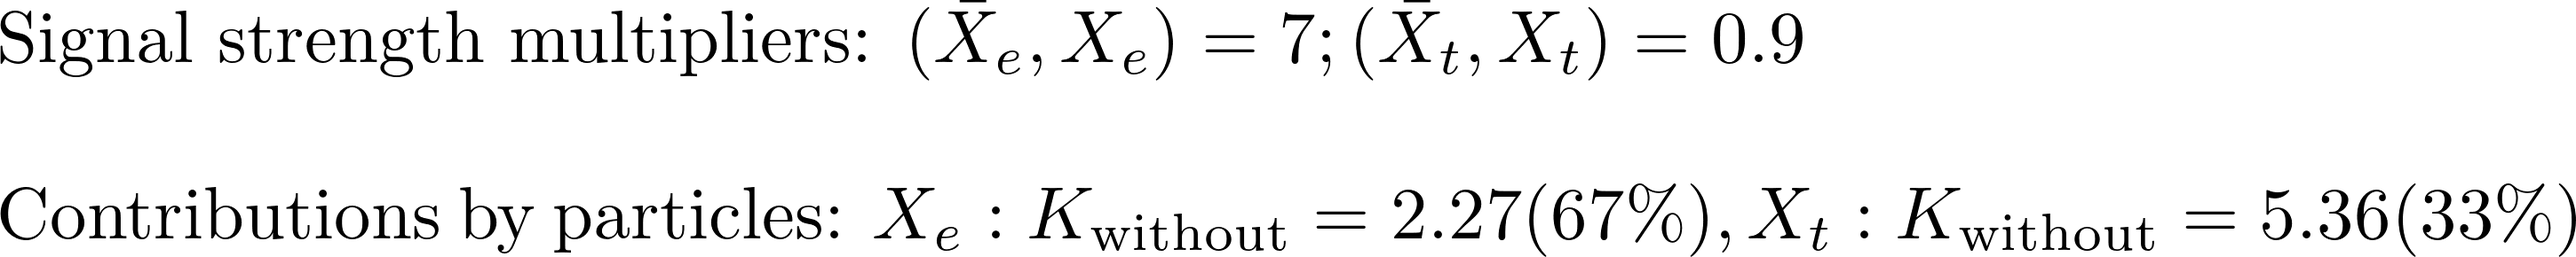
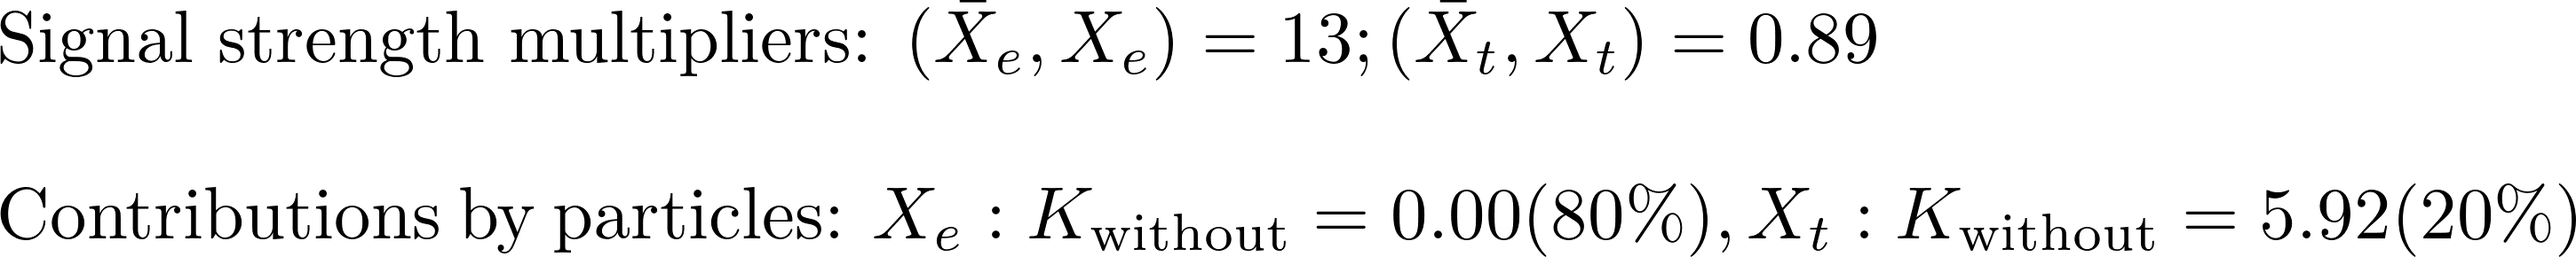
automated update by plotHiscore.py to /scratch-cbe/users/wolfgan.waltenberger/git/smodels.github.io/protomodels/latest/

Changed region(s): [[0.4964, 0.0, 0.7446, 0.3103], [0.5274, 0.7448, 0.6515, 0.931], [0.8997, 0.7448, 0.9928, 0.931]]

diff --git a/protomodels/latest/index.html b/protomodels/latest/index.html
@@ -1,30 +1,28 @@
 <html>
 <body>
 <center>
-<table><td><h1>Current best protomodel: K=8.42</h1><td><img height=60px src=https://smodels.github.io/pics/banner.png></table>
+<table><td><h1>Current best protomodel: K=7.96</h1><td><img height=60px src=https://smodels.github.io/pics/banner.png></table>
 </center>
-<b><a href=./hiscore.slha>ProtoModel</a> <a href=./pmodel.py>(dict)</a> produced with <a href=https://smodels.github.io/docs/Validation124signal11>database v1.2.4signal11</a>, combination strategy <a href=./matrix_aggressive.png>aggressive</a> in walker 28 step 140.</b> K plots for: <a href=./M1000022.png?13497653>X<sub>Z</sub><sup>1</sup></a>, <a href=./M1000006.png?13497653>X<sub>t</sub></a>, <a href=./M1000011.png?13497653>X<sub>e</sub></a>. HPD plots for: <a href=./llhd1000006.png?13497653>X<sub>t</sub></a>, <a href=./llhd1000011.png?13497653>X<sub>e</sub></a>. SSM plots for: <a href=./ssm_-1000006_1000006.png?13497653>(x&#772;<sub>t</sub>,X<sub>t</sub>)</a><br>
+<b><a href=./hiscore.slha>ProtoModel</a> <a href=./pmodel.py>(dict)</a> produced with <a href=https://smodels.github.io/docs/Validation124signal12>database v1.2.4signal12</a>, combination strategy <a href=./matrix_aggressive.png>aggressive</a> in walker 22 step 549.</b> K plots for: <a href=./M1000022.png?13497929>X<sub>Z</sub><sup>1</sup></a>, <a href=./M1000006.png?13497929>X<sub>t</sub></a>, <a href=./M1000011.png?13497929>X<sub>e</sub></a>. HPD plots for: <a href=./llhd1000006.png?13497929>X<sub>t</sub></a>, <a href=./llhd1000011.png?13497929>X<sub>e</sub></a>. SSM plots for: <a href=./ssm_-1000006_1000006.png?13497929>(x&#772;<sub>t</sub>,X<sub>t</sub>)</a><br>
 <table width=80%>
 <tr><td>
-<br><b>18 predictions available. Highest r values are:</b><br><ul>
-<li><a href=http://cms-results.web.cern.ch/cms-results/public-results/publications/SUS-19-006/index.html>CMS-SUS-19-006</a>:T2tt r=1.30, r<sub>exp</sub>=1.02<br>
-<li><a href=https://cms-results.web.cern.ch/cms-results/public-results/publications/SUS-17-009/>CMS-SUS-17-009</a>:TSelSel r=1.17, r<sub>exp</sub>=0.51<br>
-<li><a href=http://cms-results.web.cern.ch/cms-results/public-results/publications/SUS-16-051/index.html>CMS-SUS-16-051</a>:T2tt r=0.65, r<sub>exp</sub>=0.48<br>
-<li><a href=http://cms-results.web.cern.ch/cms-results/public-results/publications/SUS-16-050/index.html>CMS-SUS-16-050</a>:T2tt r=0.59, r<sub>exp</sub>=0.86<br>
-<li><a href=https://atlas.web.cern.ch/Atlas/GROUPS/PHYSICS/PAPERS/SUSY-2016-24/>ATLAS-SUSY-2016-24</a>:TSelSel r=0.51, r<sub>exp</sub>=0.82<br>
+<br><b>8 predictions available. Highest r values are:</b><br><ul>
+<li><a href=http://cms-results.web.cern.ch/cms-results/public-results/publications/SUS-19-006/index.html>CMS-SUS-19-006</a>:T2tt r=1.30, r<sub>exp</sub>=0.43<br>
+<li><a href=https://atlas.web.cern.ch/Atlas/GROUPS/PHYSICS/PAPERS/SUSY-2013-11/>ATLAS-SUSY-2013-11</a>:TSlepSlep r=1.02, r<sub>exp</sub>=0.82<br>
+<li><a href=https://atlas.web.cern.ch/Atlas/GROUPS/PHYSICS/PAPERS/SUSY-2018-32/>ATLAS-SUSY-2018-32</a>:TSlepSlep r=0.98, r<sub>exp</sub>=N/A<br>
+<li><a href=https://cms-results.web.cern.ch/cms-results/public-results/publications/SUS-17-009/>CMS-SUS-17-009</a>:TSelSel r=0.54, r<sub>exp</sub>=0.90<br>
+<li><a href=https://cms-results.web.cern.ch/cms-results/public-results/publications/SUS-17-009/>CMS-SUS-17-009</a>:TSlepSlep r=0.43, r<sub>exp</sub>=0.47<br>
 </ul>
 <td><br><b>K values without analyses: (contribution)</b><br>
 <ul>
-<li> <a href=http://cms-results.web.cern.ch/cms-results/public-results/publications/SUS-16-049/index.html>CMS-SUS-16-049</a>: -2.14 (20%)
-<li> <a href=https://cms-results.web.cern.ch/cms-results/public-results/publications/SUS-17-009/>CMS-SUS-17-009</a>: -2.14 (20%)
-<li> <a href=https://atlas.web.cern.ch/Atlas/GROUPS/PHYSICS/PAPERS/SUSY-2013-11/>ATLAS-SUSY-2013-11</a>: -2.22 (20%)
-<li> <a href=https://atlas.web.cern.ch/Atlas/GROUPS/PHYSICS/PAPERS/SUSY-2016-24/>ATLAS-SUSY-2016-24</a>: -2.56 (20%)
-<li> <a href=https://atlas.web.cern.ch/Atlas/GROUPS/PHYSICS/PAPERS/SUSY-2016-16/>ATLAS-SUSY-2016-16</a>: -2.92 (21%)
-<td><img width=600px src=./texdoc.png?1606497653>
-<br><font size=-1>Last updated: Fri Nov 27 18:20:53 2020</font>
+<li> <a href=https://cms-results.web.cern.ch/cms-results/public-results/publications/SUS-17-009/>CMS-SUS-17-009</a>: 2.20 (25%)
+<li> <a href=http://cms-results.web.cern.ch/cms-results/public-results/publications/SUS-16-049/index.html>CMS-SUS-16-049</a>: 2.12 (25%)
+<li> <a href=https://atlas.web.cern.ch/Atlas/GROUPS/PHYSICS/PAPERS/SUSY-2013-11/>ATLAS-SUSY-2013-11</a>: -3.50 (50%)
+<td><img width=600px src=./texdoc.png?1606497929>
+<br><font size=-1>Last updated: Fri Nov 27 18:25:29 2020</font>
 </table><table style="width:80%">
-<td width=45%><img height=580px src=./ruler.png?1606497653><td width=55%><img height=380px src=./decays.png?1606497653>
-<font size=-3><iframe type="text/html" height="220px" width="100%s" frameborder="0" src="./rawnumbers.html?1606497653"></iframe></font>
+<td width=45%><img height=580px src=./ruler.png?1606497929><td width=55%><img height=380px src=./decays.png?1606497929>
+<font size=-3><iframe type="text/html" height="220px" width="100%s" frameborder="0" src="./rawnumbers.html?1606497929"></iframe></font>
 </table>
 </body>
 </html>

diff --git a/protomodels/latest/rawnumbers.html b/protomodels/latest/rawnumbers.html
@@ -1,9 +1,7 @@
 <table>
 <tr><th>Analysis Name</th><th>Type</th><th>Dataset</th><th>Topos</th><th>Observed</th><th>Expected</th><th>Approx &sigma;</th><th>Particles</th><th>Signal</th>
 </tr>
-<tr><td><a href=https://atlas.web.cern.ch/Atlas/GROUPS/PHYSICS/PAPERS/SUSY-2013-11/>ATLAS-SUSY-2013-11</a></td><td>em</td> <td>mT2-150-SF</td><td>TSlepSlep</td><td>4</td><td>3.2 +/- 0.7</td><td style="text-align:right">0.4 &sigma;</td><td style="text-align:right">X<sub>e</sub></td><td style="text-align:right">2</td></tr>
-<tr><td><a href=https://atlas.web.cern.ch/Atlas/GROUPS/PHYSICS/PAPERS/SUSY-2016-16/>ATLAS-SUSY-2016-16</a></td><td>em</td> <td>tN_high</td><td>T2tt</td><td>6</td><td>3.8 +/- 1</td><td style="text-align:right">1.0 &sigma;</td><td style="text-align:right">X<sub>t</sub></td><td style="text-align:right">3</td></tr>
-<tr><td><a href=https://atlas.web.cern.ch/Atlas/GROUPS/PHYSICS/PAPERS/SUSY-2016-24/>ATLAS-SUSY-2016-24</a></td><td>em</td> <td>SR2-SF-tight</td><td>TSelSel</td><td>13</td><td>9.8 +/- 2.9</td><td style="text-align:right">0.7 &sigma;</td><td style="text-align:right">X<sub>e</sub></td><td style="text-align:right">5</td></tr>
-<tr><td><a href=http://cms-results.web.cern.ch/cms-results/public-results/publications/SUS-16-049/index.html>CMS-SUS-16-049</a></td><td>ul</td> <td>-</td><td>T2tt</td><td> 5.0 fb </td><td> 2.7 fb</td><td style="text-align:right">1.7 &sigma;</td><td style="text-align:right">X<sub>t</sub></td><td style="text-align:right">2.32 fb</td></tr>
-<tr><td><a href=https://cms-results.web.cern.ch/cms-results/public-results/publications/SUS-17-009/>CMS-SUS-17-009</a></td><td>ul</td> <td>-</td><td>TSlepSlep</td><td> 3.7 fb </td><td> 1.5 fb</td><td style="text-align:right">3.0 &sigma;</td><td style="text-align:right">X<sub>e</sub></td><td style="text-align:right">2.27 fb</td></tr>
+<tr><td><a href=https://atlas.web.cern.ch/Atlas/GROUPS/PHYSICS/PAPERS/SUSY-2013-11/>ATLAS-SUSY-2013-11</a></td><td>em</td> <td>mT2-90-SF</td><td>TSlepSlep</td><td>59</td><td>38.2 +/- 5.1</td><td style="text-align:right">2.6 &sigma;</td><td style="text-align:right">X<sub>e</sub></td><td style="text-align:right">2</td></tr>
+<tr><td><a href=http://cms-results.web.cern.ch/cms-results/public-results/publications/SUS-16-049/index.html>CMS-SUS-16-049</a></td><td>ul</td> <td>-</td><td>T2tt</td><td> 5.5 fb </td><td> 2.2 fb</td><td style="text-align:right">3.0 &sigma;</td><td style="text-align:right">X<sub>t</sub></td><td style="text-align:right">2.32 fb</td></tr>
+<tr><td><a href=https://cms-results.web.cern.ch/cms-results/public-results/publications/SUS-17-009/>CMS-SUS-17-009</a></td><td>ul</td> <td>-</td><td>TSelSel</td><td> 240.3 fb </td><td> 142.5 fb</td><td style="text-align:right">1.3 &sigma;</td><td style="text-align:right">X<sub>e</sub></td><td style="text-align:right">-</td></tr>
 </table>

diff --git a/protomodels/latest/pmodel.py b/protomodels/latest/pmodel.py
@@ -1,1 +1,1 @@
-{'masses': {1000022: 145.294, 1000011: 492.177, 1000006: 1135.037}, 'ssmultipliers': {(1000022, 1000022): 0.023, (1000011, 1000011): 6.975, (-1000011, 1000011): 6.975, (-1000011, -1000011): 6.975, (1000011, 1000022): 6.975, (-1000011, 1000022): 6.975, (1000006, 1000006): 0.901, (-1000006, 1000006): 0.901, (-1000006, -1000006): 0.901, (1000006, 1000022): 0.901, (-1000006, 1000022): 0.901, (1000006, 1000011): 0.901, (-1000006, 1000011): 0.901, (-1000011, 1000006): 0.901, (-1000011, -1000006): 0.901}, 'decays': {1000022: {}, 1000011: {(1000022, 11): 1.0}, 1000006: {(1000022, 6): 1.0}}, 'timestamp': 'Fri Nov 27 18:20:45 2020', 'Z': 3.452, 'K': 8.418, 'walkerid': 28, 'step': 140, 'codever': '1.0', 'dbver': '1.2.4signal11'}
+{'masses': {1000022: 115.437, 1000011: 178.497, 1000006: 1351.412}, 'ssmultipliers': {(1000022, 1000022): 0.022, (1000011, 1000011): 8.471, (-1000011, 1000011): 12.732, (-1000011, -1000011): 8.471, (1000011, 1000022): 8.471, (-1000011, 1000022): 8.471, (1000006, 1000006): 0.891, (-1000006, 1000006): 0.891, (-1000006, -1000006): 0.891, (1000006, 1000022): 0.891, (-1000006, 1000022): 0.891, (1000006, 1000011): 0.891, (-1000006, 1000011): 0.891, (-1000011, 1000006): 0.891, (-1000011, -1000006): 0.891}, 'decays': {1000022: {}, 1000011: {(1000022, 11): 1.0}, 1000006: {(1000022, 6): 1.0}}, 'timestamp': 'Fri Nov 27 18:25:21 2020', 'Z': 3.385, 'K': 7.955, 'walkerid': 22, 'step': 549, 'codever': '1.0', 'dbver': '1.2.4signal12'}
